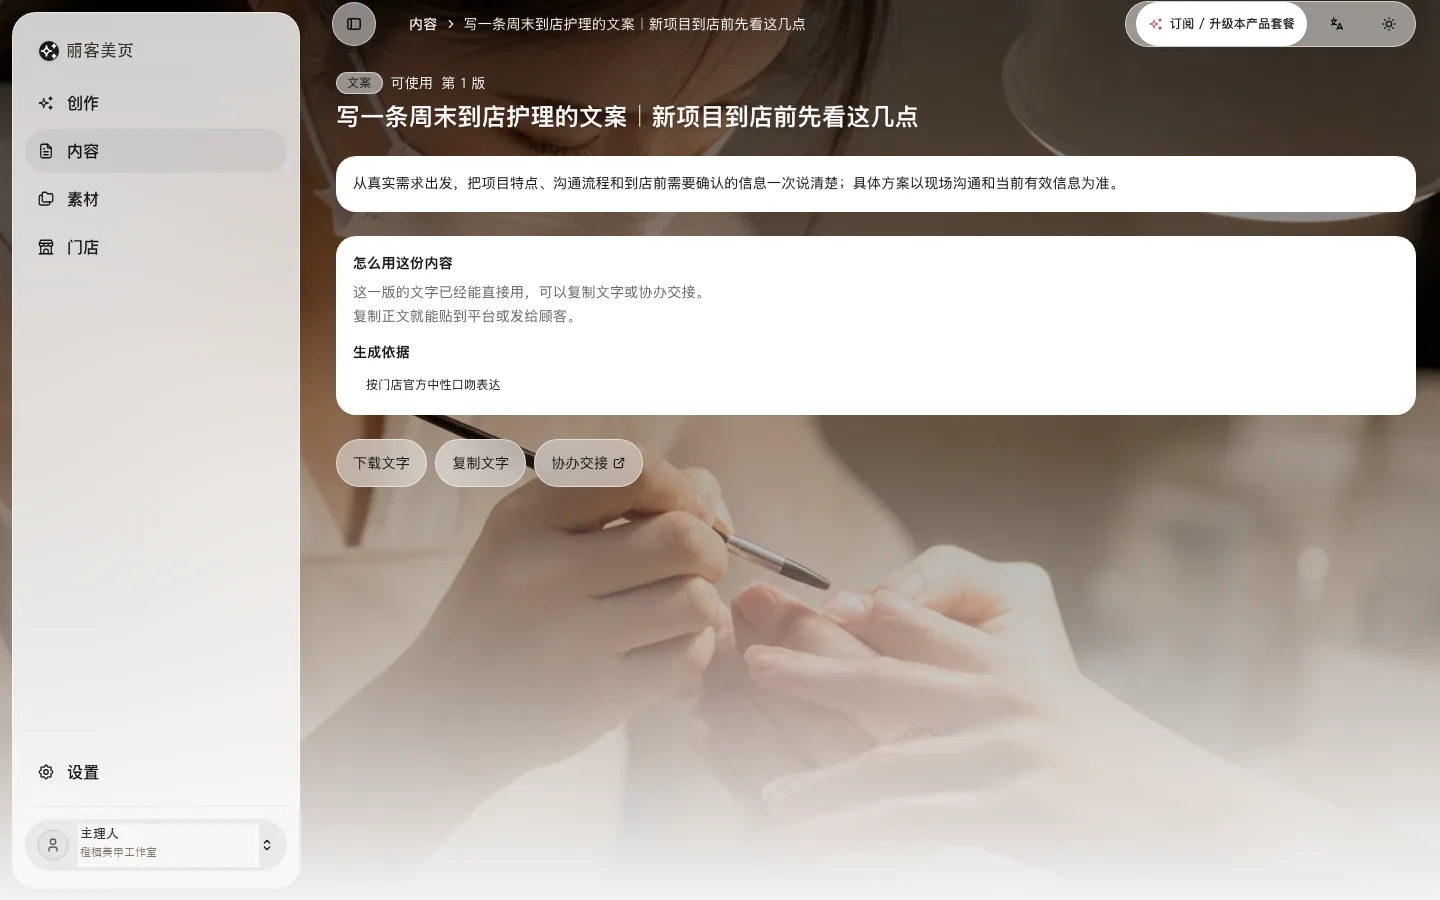
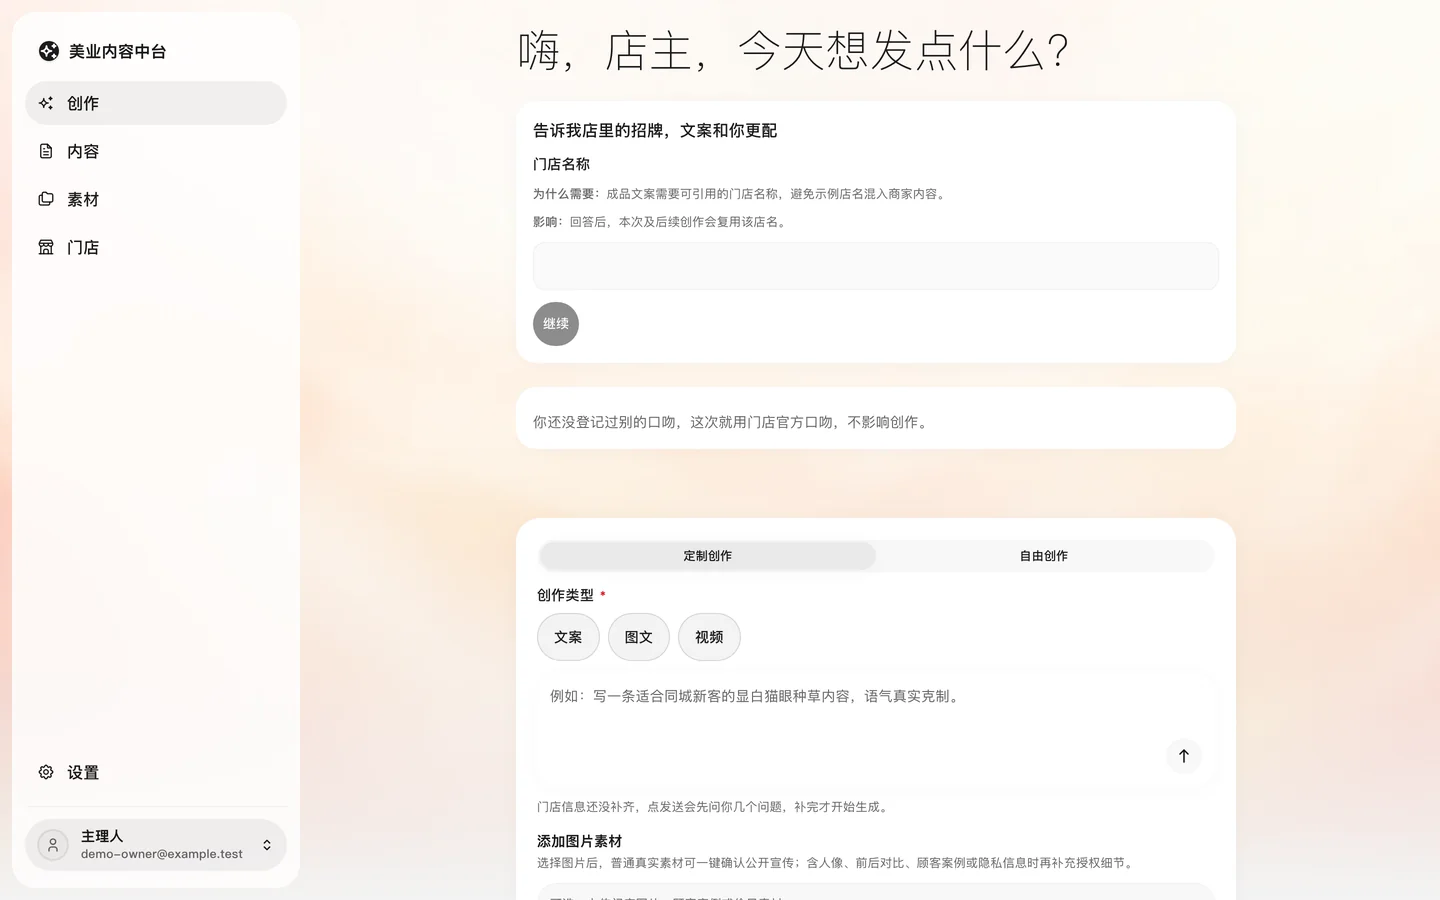
feat: refine landing page experience

diff --git a/mkfast-template-main/src/components/landing/footer.tsx b/mkfast-template-main/src/components/landing/footer.tsx
@@ -12,6 +12,7 @@ import {
   landing_cta_terms_suffix,
   landing_cta_terms_tos,
   landing_cta_title,
+  landing_footer_brand_line,
   landing_footer_col_company,
   landing_footer_col_product,
   landing_footer_copyright,
@@ -149,18 +150,23 @@ export function Footer(): ReactNode {
       <div className="bg-accent rounded-tr-[3rem] rounded-tl-[3rem] pt-96 pb-16 max-[850px]:pt-72">
         <div className="max-w-5xl mx-auto px-6">
           <div className="flex items-start justify-between gap-12 max-[850px]:flex-col max-[850px]:gap-10">
-            <Link to={Routes.Root} className="flex items-center gap-2">
-              <img
-                src="/landing/logo.svg"
-                alt=""
-                width={32}
-                height={32}
-                className="h-8 w-8"
-              />
-              <span className="text-xl font-semibold text-neutral-900 leading-0">
-                {landing_nav_brand()}
-              </span>
-            </Link>
+            <div className="flex flex-col gap-3">
+              <Link to={Routes.Root} className="flex items-center gap-2">
+                <img
+                  src="/landing/logo.svg"
+                  alt=""
+                  width={32}
+                  height={32}
+                  className="h-8 w-8"
+                />
+                <span className="text-xl font-semibold text-neutral-900 leading-0">
+                  {landing_nav_brand()}
+                </span>
+              </Link>
+              <p className="max-w-xs text-sm text-neutral-900/60">
+                {landing_footer_brand_line()}
+              </p>
+            </div>
 
             <nav
               className="flex gap-16 max-[850px]:gap-10 max-[850px]:flex-wrap"

diff --git a/mkfast-template-main/src/components/landing/header.tsx b/mkfast-template-main/src/components/landing/header.tsx
@@ -7,9 +7,8 @@ import {
   landing_a11y_menu_open,
   landing_a11y_nav_mobile,
   landing_a11y_nav_primary,
-  landing_nav_brand,
+  landing_nav_header_brand,
   landing_nav_login,
-  landing_nav_logo_alt,
   landing_nav_menu_product,
   landing_nav_menu_resources,
   landing_nav_pricing,
@@ -289,7 +288,7 @@ export function Header(): ReactNode {
         <Link
           to={Routes.Root}
           className="flex items-center gap-2 ml-4 max-[850px]:ml-0"
-          aria-label={landing_nav_logo_alt()}
+          aria-label={landing_nav_header_brand()}
         >
           <img
             src="/landing/logo.svg"
@@ -299,7 +298,7 @@ export function Header(): ReactNode {
             className="h-6 w-6"
           />
           <span className="text-lg font-semibold text-foreground leading-0 max-[1200px]:hidden max-[850px]:inline">
-            {landing_nav_brand()}
+            {landing_nav_header_brand()}
           </span>
         </Link>
 

diff --git a/mkfast-template-main/src/env/client.ts b/mkfast-template-main/src/env/client.ts
@@ -15,14 +15,14 @@ export const clientEnv = createEnv({
       .enum(['true', 'false'])
       .default('false')
       .transform((value) => value === 'true'),
-    // D-123 中级 ¥399/月. The landing page and /pricing both read this one
-    // number — the ¥399-vs-¥499 public contradiction came from the landing
+    // D-123 中级 ¥1999/月. The landing page and /pricing both read this one
+    // number — the former ¥399-vs-¥499 contradiction came from the landing
     // hard-coding its own copy of the price (D-143).
     VITE_GROWTH_MONTHLY_AMOUNT_CENTS: z.coerce
       .number()
       .int()
       .positive()
-      .default(39900),
+      .default(199900),
     VITE_GROWTH_YEARLY_AMOUNT_CENTS: z.coerce
       .number()
       .int()

diff --git a/mkfast-template-main/tests/e2e/specs/landing-page.spec.ts b/mkfast-template-main/tests/e2e/specs/landing-page.spec.ts
@@ -31,9 +31,10 @@ test.describe('LIKEPAGE marketing landing page', () => {
     const monitor = installPageHealthMonitor(page);
     await expectHealthyPage(page, monitor, '/', { theme: 'light' });
 
+    // Two lines, with the Latin wordmark set in script as the accent.
     const h1 = page.getByRole('heading', { level: 1 });
-    await expect(h1).toContainText('说一句话');
-    await expect(h1).toContainText('能发的');
+    await expect(h1).toContainText('美页出发');
+    await expect(h1).toContainText('Like Page');
 
     const anchorOffsets: number[] = [];
     for (const anchor of SECTION_ANCHORS) {

diff --git a/mkfast-template-main/src/components/landing/landing-capability-contract.test.ts b/mkfast-template-main/src/components/landing/landing-capability-contract.test.ts
@@ -120,11 +120,7 @@ test('landing states delivery as the current situation, never as an absolute', (
   assert.doesNotMatch(landingEn, /never publish|will never post/iu);
 
   // The delivery sentences are time-scoped instead.
-  const deliveryKeys = [
-    'landing_hero_subhead',
-    'landing_steps_4_desc',
-    'landing_faq_a2',
-  ];
+  const deliveryKeys = ['landing_steps_4_desc', 'landing_faq_a2'];
   for (const key of deliveryKeys) {
     assert.match(zh[key], /当前|目前/u, `zh ${key}`);
     assert.match(en[key], /today|for now/iu, `en ${key}`);

diff --git a/mkfast-template-main/src/components/landing/how-it-works.tsx b/mkfast-template-main/src/components/landing/how-it-works.tsx
@@ -98,7 +98,7 @@ export function HowItWorks(): ReactNode {
           <p className="text-sm font-medium text-muted-foreground">
             {landing_steps_eyebrow()}
           </p>
-          <h2 className="mt-4 text-4xl font-semibold tracking-tight text-foreground sm:text-5xl lg:text-6xl">
+          <h2 className="mt-4 whitespace-pre-line text-4xl font-semibold tracking-tight text-foreground sm:text-5xl lg:text-6xl">
             {landing_steps_title()}
           </h2>
           <motion.div

diff --git a/mkfast-template-main/src/components/landing/hero.tsx b/mkfast-template-main/src/components/landing/hero.tsx
@@ -132,7 +132,7 @@ export function Hero(): ReactNode {
               transition={{ duration: 0.8, ease }}
             >
               {landing_hero_h1_line2_lead()}{' '}
-              <span className="italic font-serif text-accent">
+              <span className="meiye-landing-script text-accent">
                 {landing_hero_h1_line2_em()}
               </span>
             </motion.span>

diff --git a/mkfast-template-main/src/components/landing/landing.css b/mkfast-template-main/src/components/landing/landing.css
@@ -51,6 +51,15 @@
   color: white;
 }
 
+.meiye-landing-script {
+  font-family:
+    "Snell Roundhand", "Segoe Script", "Apple Chancery", "URW Chancery L",
+    cursive;
+  font-style: normal;
+  font-weight: 400;
+  letter-spacing: -0.04em;
+}
+
 /* --- fixed page frame + corner notches (template layout.tsx) --- */
 
 .meiye-landing .site-frame {

diff --git a/docs/design/one-pager-forum-2026-07-28.md b/docs/design/one-pager-forum-2026-07-28.md
@@ -1,0 +1,87 @@
+<div align="center">
+
+*BEAUTY · TRAFFIC · CLIENTS*
+
+# 丽客美页 LIKEPAGE
+### 美页出发，丽客进门
+
+**美业门店的 AI 内容搭档**
+
+</div>
+
+---
+
+## 这三件事，是不是也卡着你
+
+**流量越来越难拿。** 同样一款秋色系，你做了六年，拍得清清楚楚；点赞的却是隔壁开了半年那家。手艺没输，是没被看见。
+
+**不是不想发，是不知道怎么发。** 今天该发什么？标题怎么起？小红书和抖音是不是还得分开写？一条内容琢磨半小时，最后凑合发了，发完也不知道有没有用。
+
+**都说 AI 能干这个，一打开就劝退。** 一堆参数、一堆模板，还得学剪辑；好不容易出来一段，读一遍——这话我不会这么说。还得从头改，改到最后不如自己写。
+
+于是"做内容"永远排在"等有空再说"里。而同行已经在页面上，把本该推你门的客人接走了。
+
+不管你是自己守着一间店，还是手里有品牌、有一套不能走样的口径和不能出错的价格资质——卡住的地方是同一个：**内容得像你，还得真发得出去。**
+
+## 换个店名照样能发的内容，带不来客人
+
+这是我们做这个产品的起点。
+
+平台上从不缺美业文案，缺的是带着**你这家店**的那一条——你上周新做的秋色系、你的卡项怎么定价、你的客片能不能用、你不说"预约体验"你说"到店做"。通用工具给得出漂亮句子，可那些句子换个店名照样能发。换个店名照样能发的，就不是你的内容。
+
+丽客美页把顺序反过来：**先认你的店，再写你的内容。**
+
+（**丽客**是刷到你、停了三秒点了个赞的那位，也是第二天推门说"我刷到你了"的那位——屏幕上她叫一个赞 LIKE，进了门她叫客人。**美页**的"页"，和美业的"业"本来同音：手艺发生在店里，生意越来越发生在页面上。连读就是 LIKEPAGE。）
+
+## 它替你把五件事接过去
+
+**① 不知道今天发什么 —— 它先替你想好。**
+打开就有一条今天值得发的，附带为什么适合现在、用了你店里哪些东西、希望客人看完做什么。不想用它的，你说自己的想法就行。
+
+**② 一句话，出一整套。**
+「新款秋色系要上了，出一套。」——文案、配图、十五秒成片一次出齐；小红书、抖音、视频号各按各的习惯分别成稿，不是一稿三贴。先给你一条主推荐，不用一上来就做选择题。
+
+**③ 不用学任何工具。**
+没有表单要填，没有参数要调，不用会剪辑。你会跟店里搭档交代活儿，就会用它。不满意再说一句："更像我本人""换成抖音版""换一组素材"，就地改，不用重来。
+
+**④ 越用越像你。**
+你的项目、价格、客片、说话习惯，给过一次就记在你的店档里；临时改的只算这一次，要它长期记住，会先问你一句——不偷偷改你的设定。所以第二次开口，它已经知道你的秋色系是哪一款、你的卡项多少钱。这是通用 AI 给不了的：**它每次都得从零重新认识你，而这一位不用。**
+
+**⑤ 发完能看见回响。**
+导出去发完，顺手记一笔谁来了私信、谁买了券、谁到了店。周末看一眼这一周发了什么、来了什么，下一条该发什么心里就有数。
+
+## 你试过的那几条路，差在哪
+
+**让通用 AI 写** —— 句子漂亮，但它不认识你的店，写完还得整段改回你的话。
+**找代运营** —— 一个月几千块，人不在店里，不懂这行的手艺，发出来是通稿不是你。
+**自己剪** —— 最像你，也最贵：贵在你每晚那两个小时。
+
+## 有些事我们不碰
+
+每间好店都有一面擦得很干净的橱窗。路人停下来，看的是里面那套当季的款、那双正在忙的手——没有人是为了看玻璃停下来的。我们就做那块玻璃：把你的手艺擦亮、对好光，放进小红书和抖音的橱窗里。看得见的是你，看不见我们，最好。
+
+所以三件事我们不做：**店务不碰**——预约、收银、库存、会员、排班、报表一样不做，你原来用什么继续用。**数据不吹**——不承诺播放量、涨粉和到店量。**没有的不编**——没客片就用环境、流程和专业解释，绝不伪造案例；价格没跟你核过，不替你写具体优惠。最后这条，手里有品牌要守的人应该最有体会。
+
+## 现在到哪一步，我如实说
+
+出成品、分平台成稿、就地改，现在就能用。
+
+一键直发平台**还没做真实验证**——成品导出到手机，你用自己的账号发，发完回来记一笔。这一步我不含糊，等验过了再说能。
+
+线上支付还没开，试点期的额度我手动给你开通。名额是邀请制，一次带一批——不是饥饿营销，是我得跟得住每一家的真实使用情况。
+
+---
+
+<div align="center">
+
+**想试的，加我微信：\_\_\_\_\_\_\_\_\_\_\_\_**
+（备注「论坛 + 你的门店品类」）
+
+我给你开通额度。第一套成品出来，我们一起看。
+
+<br>
+
+**美页出发，丽客进门。**
+主角永远是你的手艺，我们只做玻璃。
+
+</div>

diff --git a/docs/design/landing-copy-2026-07-21.md b/docs/design/landing-copy-2026-07-21.md
@@ -25,7 +25,9 @@
 
 **名字拆解**（对外可讲的版本）：丽客 = 推门进来的那位客人，也是屏幕上的每一个赞（LIKE）；美页 = 美业的每一页，也是你发出去的每一页。连读即 LIKEPAGE。
 
-⚠ 待哥拍：产品端 UI 现名「美业内容簿」（`built_with_brand`）。Landing 启用「丽客美页」后，产品端是否跟改**不在本次范围**，两名并存期间以 Landing=对外品牌、产品内=功能名理解。
+~~⚠ 待哥拍：产品端 UI 现名「美业内容簿」（`built_with_brand`）。Landing 启用「丽客美页」后，产品端是否跟改**不在本次范围**，两名并存期间以 Landing=对外品牌、产品内=功能名理解。~~
+
+✅ **2026-07-28 已拍板（D-152）**：对外一律以「丽客美页 LIKEPAGE」为准，**产品端后续跟改**，两名并存降为已知过渡态而非长期解释口径；改名票待开（归 D-128 产品命名 R 门前专项）。同批拍定：**对外物料一律不落价格数字**（本文 §2.10 Landing 定价区不受影响，其脚注约束照旧）。
 
 **写作纪律**（全文已自检）：
 - 商家语言，零工程词（无 Work/Job/模型/工作流/额度状态码）；
